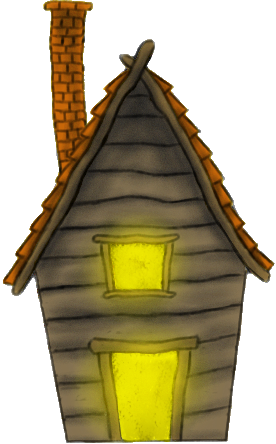
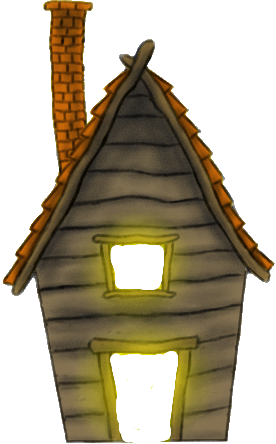
Added color and so you can pin the last point of a rope. Added a light on the last point of the rope.

Changed region(s): [[0.3768, 0.7905, 0.6667, 1.0], [0.3768, 0.527, 0.6087, 0.6734]]

diff --git a/scripts/Render.js b/scripts/Render.js
@@ -165,7 +165,8 @@ RenderManager.prototype = {
 		progFabric.position = gl.getAttribLocation(progFabric, "inPosition");
 		gl.enableVertexAttribArray(progFabric.position);
 		progFabric.proj = gl.getUniformLocation(progFabric, "projMatrix");
-		progFabric.modelView = gl.getUniformLocation(progFabric, "modelViewMatrix");		
+		progFabric.modelView = gl.getUniformLocation(progFabric, "modelViewMatrix");	
+		progFabric.color = 	gl.getUniformLocation(progFabric, "inColor");
 
 //---------------------------------PARTICLE SHADER-----------------------------------//	
 		gl.useProgram(progParticle);
@@ -316,11 +317,12 @@ InheritenceManager.extend(RenderFabric, RenderBase);
 RenderFabric.prototype.render = function() {
 	
 	//this.renderCloth(world.rope.getPoints());
-	this.renderFabric(world.rope.getPoints(), this.modelRope, this.posBufferRope, 10.0);
-	this.renderFabric(world.cloth.getPoints(), this.modelCloth, this.posBufferCloth, 1.0);
+	this.renderFabric(world.rope.getPoints(), this.modelRope, this.posBufferRope, 10.0, world.rope.getColor());
+	this.renderFabric(world.cloth.getPoints(), this.modelCloth, this.posBufferCloth, 1.0, world.cloth.getColor());
 };
 
-RenderFabric.prototype.renderFabric = function(points, model, posBuffer, lineWidth) {
+RenderFabric.prototype.renderFabric = function(points, model, posBuffer, lineWidth, color) {
+	
 	gl.useProgram(progFabric);
 	var modelView = mat4.create();
 	var playerPos = {
@@ -360,6 +362,7 @@ RenderFabric.prototype.renderFabric = function(points, model, posBuffer, lineWid
 
 	gl.uniformMatrix4fv(progFabric.proj, false, cam.getProj());
 	gl.uniformMatrix4fv(progFabric.modelView, false, modelView);
+	gl.uniform3f(progFabric.color, color[0], color[1], color[2]);
 	
 	gl.bindBuffer(gl.ARRAY_BUFFER, posBuffer);
 	gl.vertexAttribPointer(progFabric.position, 3, gl.FLOAT, false, 0, 0);
@@ -1072,7 +1075,7 @@ RenderLight.prototype.initLights = function() {
 		var color = [this.staticLightsMg[i].getColor().r, this.staticLightsMg[i].getColor().g, this.staticLightsMg[i].getColor().b];
 		this.lightPosMg = this.lightPosMg.concat(position);
 		this.lightColorMg = this.lightColorMg.concat(color);
-		this.lightIntensityMg = this.lightIntensityMg.concat(this.staticLightsBg[i].getIntensity());
+		this.lightIntensityMg = this.lightIntensityMg.concat(this.staticLightsMg[i].getIntensity());
 	}
 //-----------------------FLICKERING LIGHTS---------------------------//	
 	var totalNrFlickeringLights = this.flickeringLightsMg.length;
@@ -1184,6 +1187,14 @@ RenderLight.prototype.updateMg = function() {
 	var totalNrFlickeringLights = this.flickeringLightsMg.length;
 	var totalNrMorphingLights = this.morphingLightsMg.length;
 	
+	for(var i = 0; i < totalNrStaticLights; i++) {	// static //Every static light will be placed on the rope for now
+		this.staticLightsMg[i].setPosition(world.rope.getPosition(10));
+		var tmpPos = this.staticLightsMg[i].getPosition();
+		this.lightPosMg[i*3] = tmpPos.x;
+		this.lightPosMg[i*3+1] = tmpPos.y;
+		this.lightPosMg[i*3+2] = tmpPos.z;
+	}
+	
 	for(var i = totalNrStaticLights; i < (totalNrStaticLights + totalNrFlickeringLights); i++) {	// flickering
 		this.lightIntensityMg[i] = this.flickeringLightsMg[i - totalNrStaticLights].getIntensity();
 	}
@@ -1196,6 +1207,7 @@ RenderLight.prototype.updateMg = function() {
 	}
 	
 	gl.useProgram(progTileMg);
+	gl.uniform3fv(progTileMg.lightPos, this.lightPosMg);
 	gl.uniform3fv(progTileMg.lightColor, this.lightColorMg);
 	gl.uniform1fv(progTileMg.lightIntensity, this.lightIntensityMg);
 }

diff --git a/scripts/Fabric.js b/scripts/Fabric.js
@@ -6,7 +6,7 @@ gravity              = -900,
 tear_distance        = 80;
 
 
-Cloth = function(pos, size, spacing) {
+Cloth = function(pos, size, spacing, color) {
 	this.size = {
 		x: size[0],
 		y: size[1]
@@ -15,6 +15,7 @@ Cloth = function(pos, size, spacing) {
 		x: pos[0],
 		y: pos[1]
 	}
+	this.color = color;
 	this.updateTime = 10;
 	this.points = [];
 
@@ -22,7 +23,7 @@ Cloth = function(pos, size, spacing) {
 
 		for(var x = 0; x <= this.size.x; x++) {
 
-			var p = new Point(this.pos.x + x * spacing, this.pos.y + y * spacing, true);
+			var p = new Point(this.pos.x + x * spacing, this.pos.y - y * spacing, true);
 
 
 			if(y == 0) {
@@ -60,6 +61,10 @@ Cloth.prototype = {
 		return this.pos;
 	},
 	
+	getColor: function() {
+		return this.color
+	}, 
+	
 	update: function() {
 
 		var i = physics_accuracy;
@@ -76,15 +81,15 @@ Cloth.prototype = {
 	
 };
 
-Rope = function(startPos, endPos, numJoints) {
+Rope = function(startPos, endPos, numJoints, lastPinned, color) {
 	this.pos = {
 		x: startPos[0],
 		y: startPos[1]
 	}
 	this.updateTime = 10;
 	this.points = [];
-	//var spacing = length / numJoints;
 	
+	this.color = color;
 	
 	var distTotal = vec2.distance(startPos, endPos);
 	
@@ -96,19 +101,17 @@ Rope = function(startPos, endPos, numJoints) {
 	
 	for(var i = 0; i <= numJoints; i++) {
 		var p = new Point(this.pos.x + i * incrX, this.pos.y + i * incrY, false);
-		if(i == 0) {
+		if(i == 0 || (lastPinned && i == numJoints)) {
 			p.pin(p.x, p.y);
 		} else {
 			p.attach(this.points[(i - 1)], distTotal/numJoints);
 		}
 		
-		if(i == numJoints) {
-			//p.pin(p.x, p.y);
-		}
-		
 		this.points.push(p);
 	}
-
+	if(lastPinned) {
+		this.points[numJoints-1].attach(this.points[numJoints], distTotal/numJoints);
+	}
 	var _this = this; //Needed in setInterval, for specifying the correct this
 	this.updateInterval = setInterval(function(){_this.update()}, _this.updateTime);
 };
@@ -131,6 +134,10 @@ Rope.prototype = {
 		return this.pos;
 	},
 	
+	getColor: function() {
+		return this.color
+	}, 
+	
 	update: function() {
 
 		var i = physics_accuracy;
@@ -143,6 +150,19 @@ Rope.prototype = {
 	
 		i = this.points.length;
 		while(i--) this.points[i].update(.016);
+	}, 
+	
+	getPosition: function(i) {
+		var tmpPos = {
+			x: this.points[i % this.points.length].x, 
+			y: this.points[i % this.points.length].y,
+			z: 0.1
+		}
+		return tmpPos;
+	},
+	
+	getAngle: function(i) {
+		
 	}
 	
 };

diff --git a/scripts/World.js b/scripts/World.js
@@ -45,11 +45,10 @@ World.prototype = {
 		//this.fireEmitters.push(new EmitterFire([800,200], 10000, 10, 32, [0.0,0.8], [0.1,0.0], 2000, 500));
 		//this.fluidEmitters.push(new EmitterFluid([600,200], 10, 500, 32, [0.0,0.2], [0.1,0.0], 10));
 		
-		/*this.staticLights.push(new LightBase([495.0, 250.0, 1.0], [1.0, 1.0, 0.0]));		
-		this.staticLights.push(new LightBase([135.0, 60.0, 1.0], [1.0, 1.0, 0.0]));
-		this.staticLights.push(new LightBase([230.0, 60.0, 1.0], [1.0, 1.0, 0.0]));*/
-		
 		this.staticLightsBg.push(new LightBase([575.0, 315.0, 40.0], [0.0, 0.0, 1.0], 5.0));
+		
+		
+		this.staticLightsMg.push(new LightBase([0.0, 0.0, 40.0], [1.0, 0.0, 0.0], 3.0));
 		
 		this.flickeringLightsMg.push(new LightFlickering([233.0, 60.0, 1.0], [1.0, 0.7, 0.0], 0.01, 0.01, 1.1, 1.2));
 		this.flickeringLightsMg.push(new LightFlickering([135.0, 60.0, 1.0], [1.0, 0.7, 0.0], 0.01, 0.01, 1.1, 1.2));
@@ -62,8 +61,8 @@ World.prototype = {
 		
 		//this.morphingLights.push(new LightMorphing([495.0, 150.0, 1.0], [ [1.0, 0.0, 0.0], [0.0, 0.0, 1.0], [0.0, 1.0, 0.0]], 100, 0, 1, 1, 0.01, 0.01));
 		
-		this.cloth = new Cloth([700, 230], [10, 10], 14);
-		this.rope = new Rope([500, 200], [600, 200], 10);
+		this.cloth = new Cloth([700, 230], [10, 10], 14, [0.0, 0.7, 0.0]);
+		this.rope = new Rope([1150, 300], [1100, 100], 10, false, [0.2, 0.2, 0.2]);
 		
 		this.gpuParticles.push(new GpuParticle([500,100], 16));
 		//this.bbs.push(new OBB([100, 20], [10, 20], [20, 40], 3.14/4));
